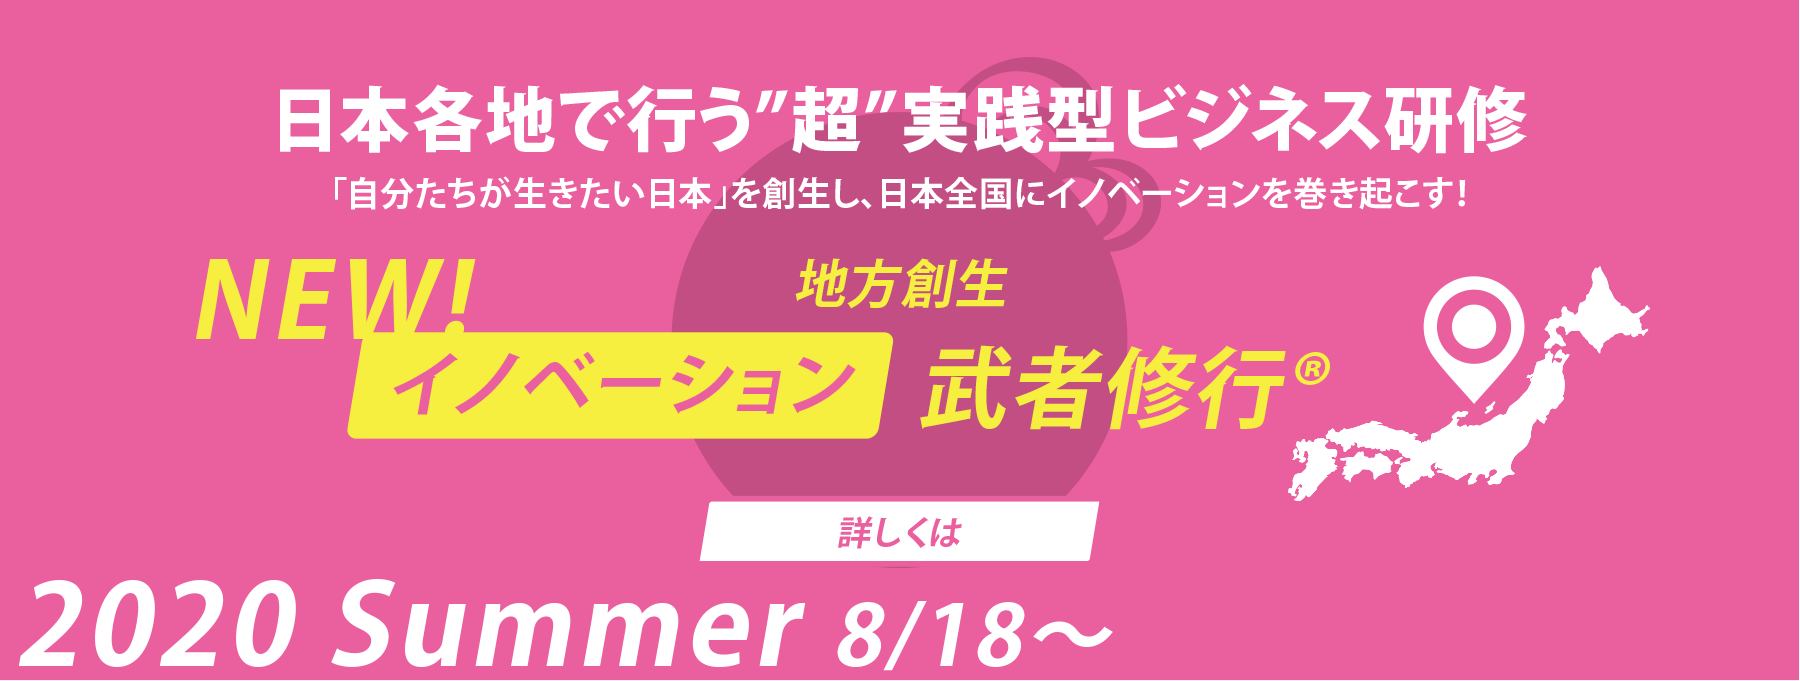
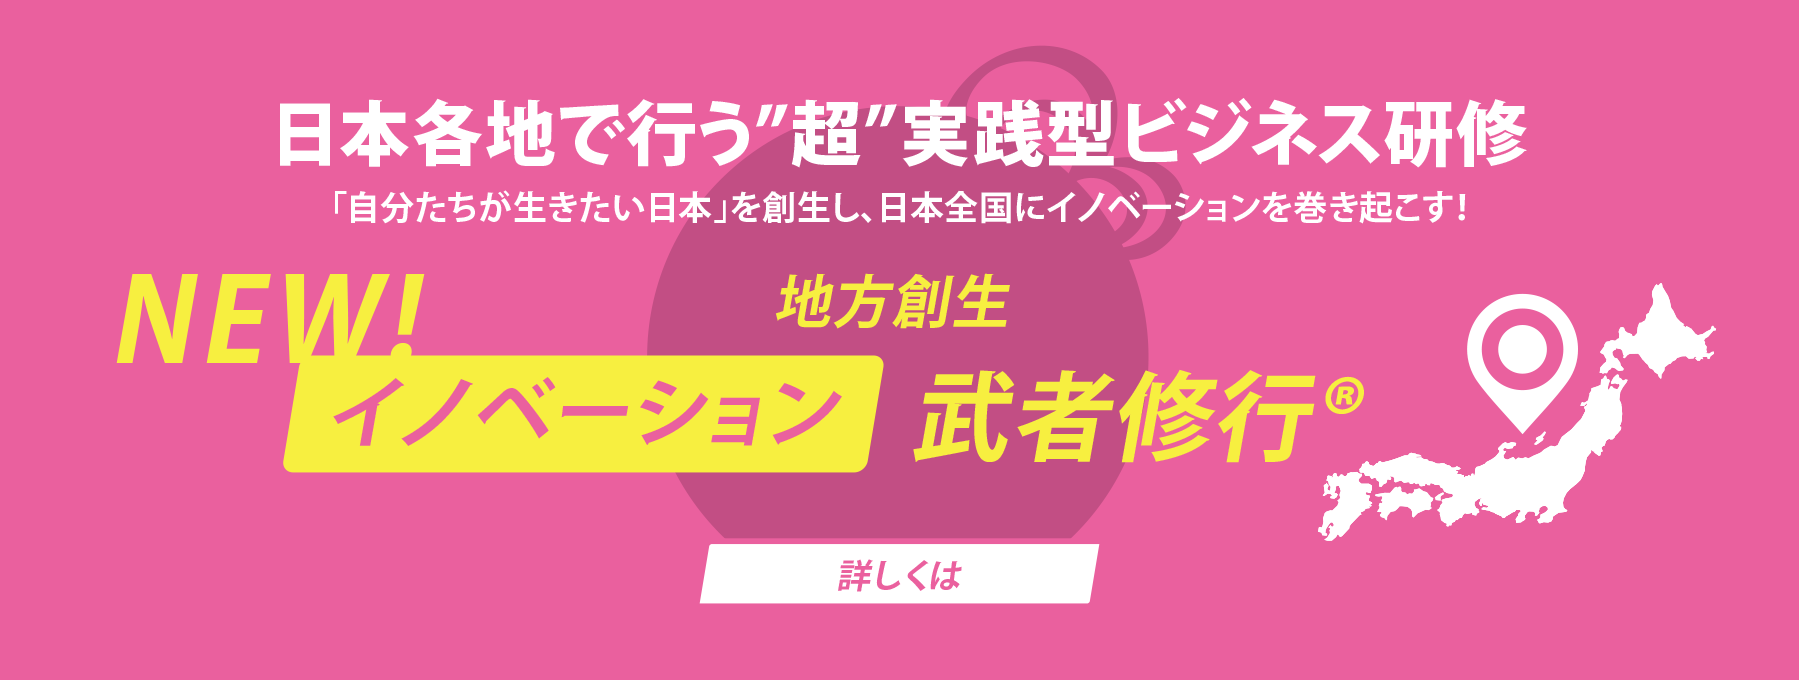
update

Changed region(s): [[0.0, 0.0618, 1.0, 1.0]]

diff --git a/index.php b/index.php
@@ -12,13 +12,13 @@
 				<a href="/about"><img class="d-block w-100" src="<?php bloginfo('template_directory'); ?>/img/202008_slide00.png" alt=""></a>
 			</div>
 			<div class="carousel-item">
-				<a href="https://mushashugyo.jp/program/online.html"><img class="d-block w-100" src="<?php bloginfo('template_directory'); ?>/img/202008_slide03.png" alt=""></a>
+				<a href="https://mushashugyo.jp/program/online.html"><img class="d-block w-100" src="<?php bloginfo('template_directory'); ?>/img/202008_slide01.png" alt=""></a>
 			</div>
 			<div class="carousel-item">
 				<a href="https://mushashugyo.jp/program/innovation.html"><img class="d-block w-100" src="<?php bloginfo('template_directory'); ?>/img/202008_slide02.png" alt=""></a>
 			</div>
 			<div class="carousel-item">
-				<a href="https://mushashugyo.jp/program/overseas.html"><img class="d-block w-100" src="<?php bloginfo('template_directory'); ?>/img/202008_slide01.png" alt=""></a>
+				<a href="https://mushashugyo.jp/program/overseas.html"><img class="d-block w-100" src="<?php bloginfo('template_directory'); ?>/img/202008_slide03.png" alt=""></a>
 			</div>
 		</div>
 		<a class="carousel-control-prev" href="#carouselExampleControls" role="button" data-slide="prev">
@@ -111,7 +111,7 @@
 		<div class="row">
 			<div class="col-4 col-sm-4 col-md-4 col-lg-4 col-xl-4">
 				<div class="img_wrap">
-					<a href="https://mushashugyo.jp/program/online.html"><img class="d-block w-100" src="<?php bloginfo('template_directory'); ?>/img/202008rp03.png" alt=""　width="400px"></a>
+					<a href="https://mushashugyo.jp/program/online.html"><img class="d-block w-100" src="<?php bloginfo('template_directory'); ?>/img/202008rp01.png" alt=""　width="400px"></a>
 				</div>
 			</div>
 			<div class="col-4 col-sm-4 col-md-4 col-lg-4 col-xl-4">
@@ -121,9 +121,20 @@
 			</div>
 			<div class="col-4 col-sm-4 col-md-4 col-lg-4 col-xl-4">
 				<div class="img_wrap">
-					<a href="https://mushashugyo.jp/program/overseas.html"><img class="d-block w-100" src="<?php bloginfo('template_directory'); ?>/img/202008rp01.png" alt=""　width="400px"></a>
+					<a href="https://mushashugyo.jp/program/overseas.html"><img class="d-block w-100" src="<?php bloginfo('template_directory'); ?>/img/202008rp03.png" alt=""　width="400px"></a>
 				</div>
 			</div>
+		</div>
+	</div>
+</section>
+<section>
+	<div class="container pb-5">
+		<h3 class="text-center text-danger font-weight-bold">人生を変える15日間<br>武者修行プログラム®紹介動画</h3>
+		<div class="mw980 mx-auto d-block">
+			<div class="embed-responsive embed-responsive-16by9 mt-5 mb-5">
+				<iframe class="embed-responsive-item" allow="fullscreen" src="https://www.youtube.com/embed/hV7hDsC3VrQ"></iframe>
+			</div>
+			<small>* 本動画はベトナムで開催されている武者修行の様子ですが、同様の内容を日本国内６ヵ所で開催中です</small>
 		</div>
 	</div>
 </section>
@@ -142,12 +153,7 @@
 </section>
 <!-- <section>
 	<div class="container pb-5">
-		<h3 class="text-center text-danger font-weight-bold">人生を変える ベトナムでの2週間<br>海外ビジネス武者修行プログラム®</h3>
-		<div class="mw980 mx-auto d-block">
-			<div class="embed-responsive embed-responsive-16by9 mt-5 mb-5">
-				<iframe class="embed-responsive-item" src="https://www.youtube.com/embed/hV7hDsC3VrQ"></iframe>
-			</div>
-		</div>
+
 		<div class="row">
 			<div class="col-12 col-sm-12 col-md-4 col-lg-4 col-xl-4">
 				<h4 class="text-center font-weight-bold">単なるビジネス体験や<br>ビジコンではない</h4>
@@ -249,78 +255,150 @@
 	<div class="container">
 		<div class="row">
 			<div class="col-12 col-sm-12 col-md-12 col-lg-12 col-xl-12">
-				<h3 class="text-center text-danger font-weight-bold">2020年夏の各ターム日程・開催地</h3>
+				<h3 class="text-center text-danger font-weight-bold">2020年年末・2021年春の各ターム日程・開催地</h3>
 				<table class="table table-bordered mx-auto bg-white">
 					<tbody>
 						<tr class="bg-danger">
-							<th class="text-center text-white" colspan="4">オンライン開催</th>
+							<th class="text-center text-white" colspan="4">2020年・年末ターム</th>
 						</tr>
 						<tr>
 							<th class="text-center w-30">ターム名</th>
 							<th class="text-center w-10">開始日</th>
 							<th class="text-center w-10">終了日</th>
-							<th class="text-center w-50">テーマ</th>
+							<th class="text-center w-50">テーマ（仮）</th>
 						</tr>
 						<tr>
-							<td>オンライン<br>1ターム</td>
-							<td>8/10(月)</td>
-							<td>8/22(土)</td>
+							<td>オンライン<br>ターム</td>
+							<td>12/26(土)</td>
+							<td>1/7(木)</td>
 							<td>英語学校または英語学習コースの新サービス開発</td>
 						</tr>
 						<tr>
-							<td>オンライン<br>2ターム</td>
-							<td>9/17(木)</td>
-							<td>9/29(火)</td>
-							<td>英語学校または英語学習コースの新サービス開発</td>
+							<td>国内<br>沖縄ターム</td>
+							<td>12/20(日)</td>
+							<td>1/3(日)</td>
+							<td>沖縄の人々に日本全国選りすぐりの日本酒を普及</td>
+						</tr>
+						<tr>
+							<td>国内<br>那智勝浦ターム</td>
+							<td>12/23(水)</td>
+							<td>1/6(水)</td>
+							<td>生まぐろ日本一、世界遺産の町で武者修行！</td>
 						</tr>
 					</tbody>
 				</table>
 				<table class="table table-bordered mx-auto bg-white">
 					<tbody>
 						<tr class="bg-danger">
-							<th class="text-center text-white" colspan="4">国内開催</th>
+							<th class="text-center text-white" colspan="4">2021年・春ターム</th>
 						</tr>
 						<tr>
 							<th class="text-center w-30">ターム名</th>
 							<th class="text-center w-10">開始日</th>
 							<th class="text-center w-10">終了日</th>
-							<th class="text-center w-50">テーマ</th>
+							<th class="text-center w-50">テーマ（仮）</th>
 						</tr>
 						<tr>
-							<td>山中湖<br>ターム</td>
-							<td>8/18(火)</td>
-							<td>9/1(火)</td>
-							<td class="text-left">山中湖村 新商品開発&マルシェ開催 PJ</td>
+							<td>海外<br>1ターム</td>
+							<td>2/9(火)</td>
+							<td>3/9(火)</td>
+							<td class="text-left">英語学校または英語学習コースの新サービス開発<br><small>海外（ベトナム・ホイアン）での開催は11月初旬に開催判断を行う予定です</small></td>
 						</tr>
 						<tr>
-							<td>佐渡ターム</td>
-							<td>8/26(水)</td>
-							<td>9/9(水)</td>
-							<td class="text-left">発掘！佐渡の観光資源。<br>佐渡金山の世界遺産登録を後押しできるような、観光サービスを企画〜実現させよう</td>
+							<td>海外<br>2ターム</td>
+							<td>3/3(水)</td>
+							<td>3/31(水)</td>
+							<td class="text-left">英語学校または英語学習コースの新サービス開発<br><small>海外（ベトナム・ホイアン）での開催は11月初旬に開催判断を行う予定です</small></td>
 						</tr>
 						<tr>
-							<td>那智勝浦ターム</td>
-							<td>9/1(火)</td>
-							<td>9/15(火)</td>
-							<td class="text-left">生マグロ日本一、世界遺産の町で武者修行！</td>
+							<td>オンライン<br>1ターム</td>
+							<td>2/14(日)</td>
+							<td>2/26(金)</td>
+							<td class="text-left">英語学校または英語学習コースの新サービス開発</td>
 						</tr>
 						<tr>
-							<td>出石ターム</td>
-							<td>9/1(火)</td>
-							<td>9/15(火)</td>
-							<td class="text-left">①マイ・オンリーワン　バッグ　プロジェクト(仮称)<br>②	オーガニック野菜（果物）を使ったメニュー＆販路開拓</td>
+							<td>オンライン<br>2ターム</td>
+							<td>2/28(日)</td>
+							<td>3/12(金)</td>
+							<td class="text-left">英語学校または英語学習コースの新サービス開発</td>
 						</tr>
 						<tr>
-							<td>美唄ターム</td>
-							<td>9/11(金)</td>
-							<td>9/25(金)</td>
-							<td class="text-left">美唄のブラックダイアモンズ（野球チーム）の新商品 or<br>球場サービス開発（仮）&ゴルフ場</td>
+							<td>オンライン<br>3ターム</td>
+							<td>3/14(日)</td>
+							<td>3/26(金)</td>
+							<td class="text-left">英語学校または英語学習コースの新サービス開発</td>
 						</tr>
 						<tr>
-							<td>南房総ターム</td>
-							<td>9/15(金)</td>
-							<td>9/29(金)</td>
-							<td class="text-left">自然＊ビジネス*ワーケーション=「イノビレ」リアルなソーシャル プラットフォームのスタートアップ。日本では「ここだけ」をゼロから創る</td>
+							<td>国内<br>1ターム</td>
+							<td>2/10(水)</td>
+							<td>2/24(水)</td>
+							<td class="text-left">（開催場所未定）</td>
+						</tr>
+						<tr>
+							<td>国内<br>2ターム</td>
+							<td>2/11(木)</td>
+							<td>2/25(木)</td>
+							<td class="text-left">（開催場所未定）</td>
+						</tr>
+						<tr>
+							<td>国内<br>3ターム</td>
+							<td>2/12(金)</td>
+							<td>2/26(金)</td>
+							<td class="text-left">（開催場所未定）</td>
+						</tr>
+						<tr>
+							<td>国内<br>4ターム</td>
+							<td>2/16(火)</td>
+							<td>3/2(火)</td>
+							<td class="text-left">（開催場所未定）</td>
+						</tr>
+						<tr>
+							<td>国内<br>5ターム</td>
+							<td>2/17(水)</td>
+							<td>3/3(水)</td>
+							<td class="text-left">（開催場所未定）</td>
+						</tr>
+						<tr>
+							<td>国内<br>6ターム</td>
+							<td>2/24(水)</td>
+							<td>3/10(水)</td>
+							<td class="text-left">（開催場所未定）</td>
+						</tr>
+						<tr>
+							<td>国内<br>7ターム</td>
+							<td>3/2(火)</td>
+							<td>3/16(火)</td>
+							<td class="text-left">（開催場所未定）</td>
+						</tr>
+						<tr>
+							<td>国内<br>8ターム</td>
+							<td>3/3(水)</td>
+							<td>3/17(水)</td>
+							<td class="text-left">（開催場所未定）</td>
+						</tr>
+						<tr>
+							<td>国内<br>9ターム</td>
+							<td>3/9(火)</td>
+							<td>3/23(火)</td>
+							<td class="text-left">（開催場所未定）</td>
+						</tr>
+						<tr>
+							<td>国内<br>10ターム</td>
+							<td>3/10(水)</td>
+							<td>3/24(水)</td>
+							<td class="text-left">（開催場所未定）</td>
+						</tr>
+						<tr>
+							<td>国内<br>11ターム</td>
+							<td>3/16(火)</td>
+							<td>3/30(火)</td>
+							<td class="text-left">（開催場所未定）</td>
+						</tr>
+						<tr>
+							<td>国内<br>12ターム</td>
+							<td>3/17(水)</td>
+							<td>3/31(水)</td>
+							<td class="text-left">（開催場所未定）</td>
 						</tr>
 					</tbody>
 				</table>

diff --git a/page-company.php b/page-company.php
@@ -20,15 +20,15 @@ Template Name: page-company.php
 					</tr>
 					<tr>
 						<td>住所</td>
-						<td>● 早稲田オフィス
+						<td>● 湯島オフィス<br>
+						〒113-0034 東京都文京区湯島2-33-11岡田ビル201号室<br>
+					● 早稲田オフィス
 							〒169-0051 東京都新宿区西早稲田1-22-3<br>
-							早稲田大学インキュベーションセンター内<br>
-							● 湯島オフィス<br>
-						〒113-0034 東京都文京区湯島2-33-11岡田ビル2階</td>
+							早稲田大学インキュベーションセンター内</td>
 					</tr>
 					<tr>
 						<td>代表取締役</td>
-						<td>山口和也</td>
+						<td>山口和也<br>遠藤まさみ</td>
 					</tr>
 					<tr>
 						<td>設立</td>

diff --git a/header.php b/header.php
@@ -85,7 +85,7 @@
 				<div class="d-none d-md-block container">
 					<ul class="nav justify-content">
 						<li class="nav-item header-menu-list-sub">
-							<a class="nav-link text-dark pl-0" href="https://mushashugyo.jp/news/20200725/" target="_blank">News：2020年夏期の武者修行プログラム開催方針（7月25日更新）</a>
+							<a class="nav-link text-dark pl-0" href="https://mushashugyo.jp/news/20200728/" target="_blank">News：オンライン武者修行 追加開催決定！</a>
 						</li>
 					</ul>
 				</div>

diff --git a/page-flat.php b/page-flat.php
@@ -1,0 +1,16 @@
+<?php
+/*
+Template Name: page-flat.php
+*/
+?>
+<?php get_header(); ?>
+<div class="jumbotron">
+	<h2 class="text-center font-weight-bold"><?php echo get_the_title(); ?></h2>
+	<p class="text-center"><?php echo get_post_meta($post->ID , 'wpcf-page-sub-title' ,true); ?></p>
+</div>
+<div class="container pt-5 pb-5">
+	<?php if (have_posts()): while (have_posts()) : the_post();?>
+		<?php the_content(); ?>
+	<?php endwhile; else: echo '記事はありません。'; endif; ?>
+</div>
+<?php get_footer(); ?>

diff --git a/footer.php b/footer.php
@@ -13,6 +13,7 @@
 								<li><a alt="#" href="/about/hoian">開催地ベトナム</a></li>
 								<li><a alt="#" href="about/facilitator">ファシリテーター</a></li>
 								<li><a alt="#" href="/column">参加学生の声</a></li>
+								<li><a alt="#" href="/friends-campaign">お友達紹介キャンペーン</a></li>
 								<li><a alt="#" href="/qas">よくある質問</a></li>
 							</ul>
 						</div>

diff --git a/single-news.php b/single-news.php
@@ -31,7 +31,7 @@ Template Name: single.php
 					<?php $args = array(
 			        'numberposts' => 10,//表示（取得）する記事の数
 			        'post_type' => 'news',   //投稿タイプの指定
-			        'orderby' => 'rand',
+			        // 'orderby' => 'rand',
 			    );
 					$customPosts = get_posts($args);
 					if($customPosts) : foreach($customPosts as $post) : setup_postdata( $post ); ?>
